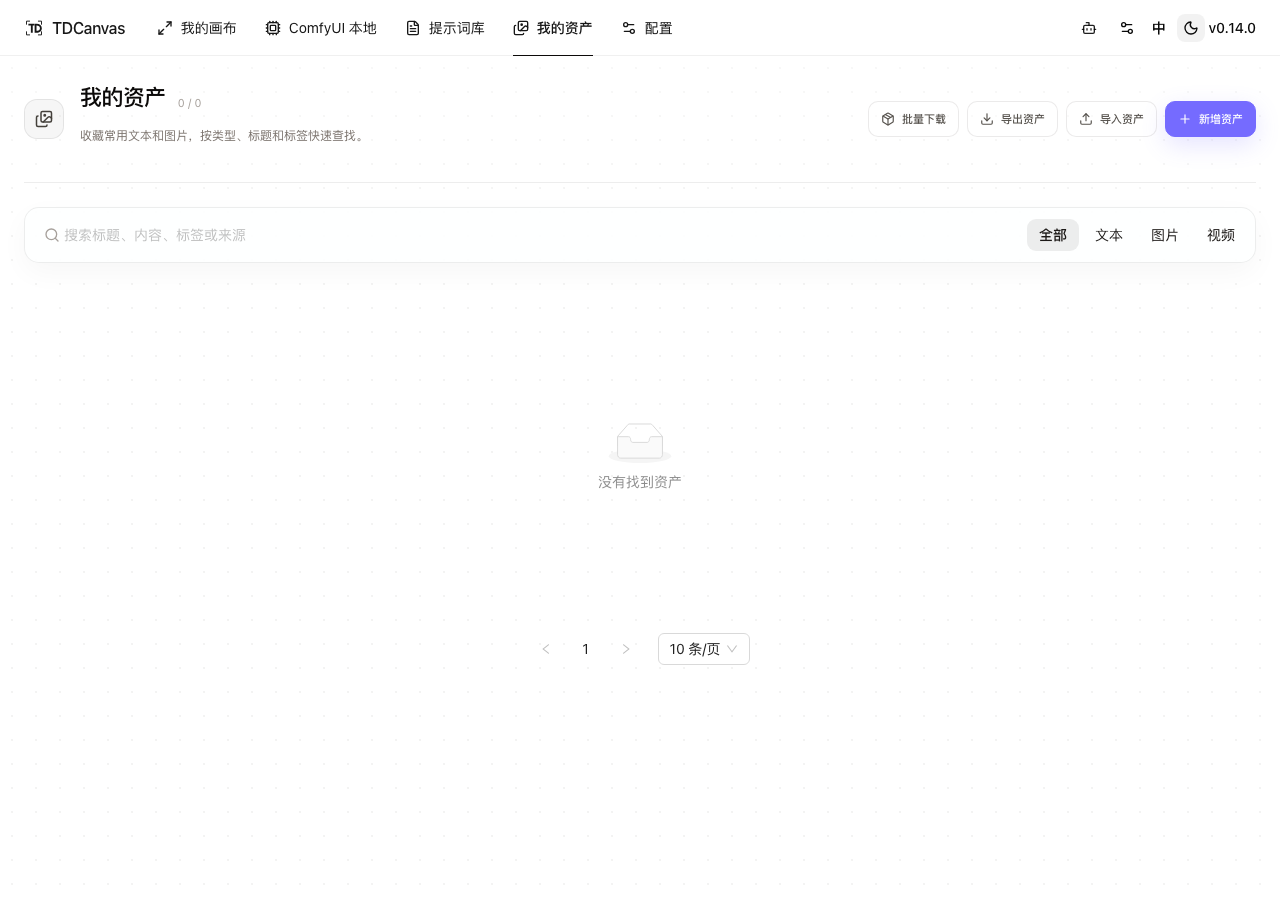
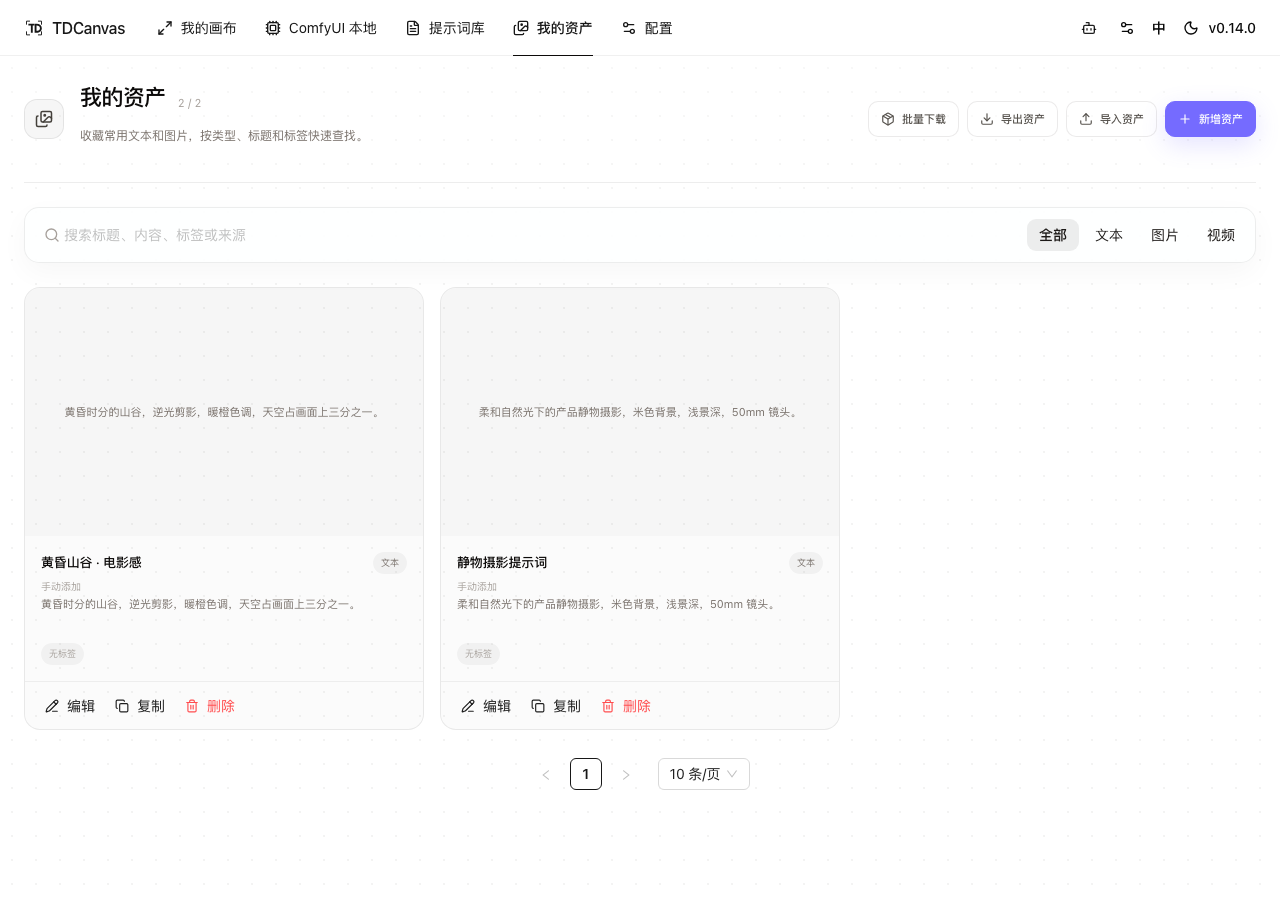
docs(tdcanvas-manual): M218 核 6 张 alt，5 张全对、1 张抓到错；那张错的三处描述都写了「图上有卡片」，而图是空态
按 M217 新立的判据办：核一个事实先数它被写了几遍，逐遍核。
所以本批不只核正文 alt，还把同一张图在 manifest 里的 alt 与 verified_locator 一起拉出来对。

6 张：14-manage-assets-import（两处引用）、14-manage-assets-search、
20-config-page（两处引用）、20-reference-config-dialog、
30-concepts-legacy-config-migrated（两处引用）全对；
14-manage-assets-light 抓到错，登记 R63，订正数 59 到 60。

R63 的内容：14-manage-assets-light.png 打开是空态——计数 0/0、
居中「没有找到资产」、底部只剩分页器，一张卡片都没有。
而同一张图在三个地方被描述成有卡片：manifest 的 alt、
同一份 manifest 的 verified_locator（逐条列了「卡片底部 编辑 复制 删除」）、
以及 organize-canvas.md 正文拿它当「资产页的卡片在浅色下都正常」的证据。
只有正文那张图的 alt 是对的。

处置是重拍而不是改措辞：先用产品自己的删除弹窗把 profile 里 4 张测试残留删干净，
再经「新增资产」弹窗建两张可读名字的文本资产，切浅色（类名与 localStorage 双确认）
才按快门，收尾删回 0/0、主题切回深色。
旧文件 sha256 d7533c3c 换成 02427a6c，manifest 四个字段同步更新。
顺带订正正文：那句还承诺「配置页的两栏布局在浅色下都正常」，
而全手册只有三张浅色图、没有浅色配置页的图，已改成图上真有的东西。

这是 M217 那条新判据的第一次实战：同一事实被写了三遍，只核一遍就会漏掉两遍，
而三遍里两遍都错。

另记一次被拦住的假警报（第 140 次否证）：
核「alt 已核 46 / 62」这个计数器时，按 PROGRESS 点名图名去数得 41、比计数器少 6，
动手改之前查出是 M215 表格里用的是不带 .png 的短名，而我的提取正则要求全名。
少的是尺子不是账，计数器是对的。
复现不出来时先怀疑复现方法，再怀疑被记的东西。

重拍时踩的两个坑也写进了 manifest 的 m218_note：
固定 sleep 拿到的是「弹窗还没开」，必须等目标出现；
antd 会在两个字之间插空格，保存键的 innerText 是「保 存」。

截图仍是 112 张（本批是替换一张）。alt 已核 46 到 52 张 / 62 张。
构建全绿：22 页 / 112 图 / 25M，自检 89/89，链接 940 条。

diff --git a/docs/user-manual/tdcanvas-canvas/scripts/check-retractions.py b/docs/user-manual/tdcanvas-canvas/scripts/check-retractions.py
@@ -736,6 +736,26 @@ RETRACTIONS: list[dict[str, str]] = [
                "**M217 已改成「面板内都是同一组 7 个……顶栏另有 1 个『打开 Agent』把它叫出来」。**",
         "fixed_in": "M217",
     },
+    {
+        "id": "R63",
+        "kind": "conclusion",
+        "wrong": "下方是一张带编辑复制删除操作的资产卡片",
+        "why": "**三处都说图上有一张资产卡片，图上一张都没有。**\n"
+               "2026-10-04 核 alt 时打开 `14-manage-assets-light.png`：**那是空态**——\n"
+               "计数 0/0、居中一个箱子图标加「没有找到资产」、底部只剩分页器，**没有任何卡片**。\n"
+               "而同一张图在三个地方被描述成有卡片：\n"
+               "① `screenshots/manifest.yml` 的 `alt` 写「下方是一张带编辑复制删除操作的资产卡片」；\n"
+               "② 同一份 manifest 的 `verified_locator` 逐条列了「卡片底部 编辑 复制 删除」；\n"
+               "③ `10-tasks/organize-canvas.md` 正文拿它当「资产页的**卡片**在浅色下都正常」的证据。\n"
+               "★ **只有正文那张图的 alt 是对的**（它只描述工具栏、搜索框与筛选，没提卡片）——\n"
+               "**这正是 M217 新立那条判据的第一次实战：同一事实被写了三遍，只核一遍就会漏掉两遍。**\n"
+               "★ 处置不是改措辞而是**重拍**：先把 profile 里 M189/M194 留下的 4 张测试残留\n"
+               "经产品自己的删除弹窗逐张删干净，再经「新增资产」弹窗建两张可读名字的文本资产，\n"
+               "点顶栏主题按钮切浅色（**类名与 localStorage 双确认**）才按快门，收尾删回 0/0、主题切回深色。\n"
+               "旧文件 sha256 d7533c3c… 已替换为 02427a6c…。★ 顺带订正正文：\n"
+               "那句还承诺「**配置页的两栏布局**在浅色下都正常」，而**全手册没有浅色配置页的图**（只有三张浅色图：画布、外观面板、资产页），已一并改成图上真有的东西",
+        "fixed_in": "M218",
+    },
 ]
 
 

diff --git a/docs/user-manual/tdcanvas-canvas/AUDIT.md b/docs/user-manual/tdcanvas-canvas/AUDIT.md
@@ -755,3 +755,5 @@
 | **Minor(手册自身)** | **`use-agent.md` 写「五处的 Agent 元素完全一致，都是同一组 7 个」，但那份清单里没有「连接设置」，却把顶栏的「打开 Agent」算了进去** | **数是 7，成员错了。**2026-10-04 逐页实测六处（`/assets` `/prompts` `/config` `/comfyui-local` `/canvas` `/canvas/:id`）：面板内六处逐字相同、恒为 7 个，顺序是 连接设置 → 对话 → 历史 → 技能 → 日志 → 新对话 → 收起；顶栏的「打开 Agent」**在面板容器之外**。画布页顶栏另有状态灯，故全页合计是**非画布页 8 个、画布页 9 个** | 已改成「面板内都是同一组 7 个——…；顶栏另有 1 个『打开 Agent』把它叫出来」。登记 R62。★ **面板的 7 个在手册别处已经写对过两处**（`90-troubleshooting.md:356` 逐个列全、`AUDIT.md` 里 M95 的英文清单第一项就是 Connection settings），**出错的只有这一处** |
 | **Major(方法)** | **同一个事实在手册里常被写好几遍，只核其中一遍等于没核——而错的那一遍往往就是没被台账登记的那一遍** | 本批四条里有三条是**手册自己内部打架**：`90-troubleshooting-upload-rejected.png` 的 alt 说「中间」、manifest 的 alt 说「顶部」、正文说「上面」；`04-edit-nodes-multiselect-menu.png` 的正文 alt 说「右上角」、manifest 的 alt 说「文本节点上」、manifest 的 `step` 说「左下侧」；Agent 面板那 7 个在 `90-troubleshooting.md` 与 `AUDIT.md` 都对、只有 `use-agent.md` 错。**前几批立的判据（alt 描述一张图 / 正文描述一个产品）管的是「哪一层」，管不了「同层写了好几遍」** | 新立判据：**核一个事实时先数它被写了几遍，逐遍核**——被写一遍的事实核一遍就够，被写三遍的只核一遍，剩下的遍数默认未核。★ 顺带一条量具教训：本批第一版探针把 `.td-canvas-dock` 当阳性对照去量 `/canvas` 列表页，**列表页本来就没有 Dock**，读出来的「面板内 2 个」是自己制造的；改用 `probe-agent-i18n.js` 的上溯法才拿到正确的 7 个 |
 | **第 139 次否证** | **否掉「读到的数不对，一定是产品变了」——也可能是量具的阳性对照选错了** | 本批第一版探针去数「一个页面上有几个 Agent 可点元素」，在列表页 `/canvas` 读到「面板内 2 个」。**这是把量具的读数当成了产品的读数**：阳性对照用的是 `.td-canvas-dock`，**而列表页本来就没有 Dock**，前置条件压根不成立；面板容器又只从收起按钮上溯 1 层，够到的只有新对话与收起两个。改用 `probe-agent-i18n.js` 的上溯法（≥6 个带 aria-label 的按钮）重跑，六处页面各自读到面板内 7 个、与源码对得上。**同一支探针在画布页就正常**——`dock=true` 时读数是对的，**说明错的不是产品也不是探针，是我把「列表页」和「画布页」套进了同一把尺子** |
+| **Minor(手册自身)** | **`14-manage-assets-light.png` 被三处描述成「图上有一张资产卡片」，而图上是空态（0/0、一张卡片都没有）** | 这张图是 `organize-canvas.md` 拿来说「资产页的**卡片**在浅色下都正常」的证据，**可它根本拍不到卡片**。而读者若照着正文去看图，只会看到「没有找到资产」——**证据与主张对不上，比没有证据更坏**。同图的 `alt` 与 `verified_locator` 也都写了卡片（后者逐条列了「卡片底部 编辑 复制 删除」） | **不是改措辞，是重拍**：先用产品自己的删除弹窗把 profile 里 4 张测试残留删干净，再经「新增资产」弹窗建两张可读名字的资产，切浅色（**类名与 localStorage 双确认**）才按快门，收尾删回 0/0、主题切回深色。正文那句还承诺「**配置页的两栏布局**在浅色下都正常」，而全手册根本没有浅色配置页的图，一并改成图上真有的东西。登记 R63。★ 这是 M217 新立判据的第一次实战：**同一事实被写了三遍，只核一遍就会漏掉两遍**——三遍里只有正文 alt 是对的 |
+| **第 140 次否证** | **否掉「复现不出来的数，一定是当初记错了」** | 本批开头核 M217 那个「alt 已核 46 / 62」的计数器时，我按「PROGRESS 里点名过图名 = 核过」去数，得出的累计是 **41**，比计数器少 6——**看着就是计数器漂了**。动手改之前先查了 M215 那一段，发现它表格里写的是 `group-empty`、`group-filled` 这种**不带 `.png` 的短名**，而我的提取正则要求全名带后缀。**少的是我的尺子，不是账**。换成短名一起数，累计正好 41 次点名 / 40 张不同图（M215 有一张与前批重名），加上 M217 的 6 张 = 46，**计数器是对的**。M203/M204 已经为「复现不出来的数」写过两条，本批再补一条：**复现不出来时，先怀疑复现方法，再怀疑被记的东西** |

diff --git a/docs/user-manual/tdcanvas-canvas/10-tasks/organize-canvas.md b/docs/user-manual/tdcanvas-canvas/10-tasks/organize-canvas.md
@@ -176,9 +176,9 @@
 
 ![浅色主题下的画布，浅米色点阵背景、白色节点与面板，左下角缩放条与左侧 Dock 均为浅色](../screenshots/01-create-canvas-project-light-canvas.png)
 
-浅色主题不是把深色反相，而是一套完整的独立配色：画布底色是**浅米色**（`oklch(1 0 0)` 的近白），节点与面板转白底深字，画布背景的**点阵变成浅棕点**。资产页的卡片、配置页的两栏布局在浅色下都正常：
+浅色主题不是把深色反相，而是一套完整的独立配色：画布底色是**浅米色**（`oklch(1 0 0)` 的近白），节点与面板转白底深字，画布背景的**点阵变成浅棕点**。资产页的整页也跟着换，工具栏、搜索框、筛选按钮与资产卡片在浅色下都正常：
 
-![浅色主题下的我的资产页面，搜索框与筛选按钮为浅色底深字，工具栏四个按钮轮廓清晰](../screenshots/14-manage-assets-light.png)
+![浅色主题下的我的资产页面（计数 2/2），搜索框与筛选按钮为浅色底深字，工具栏四个按钮轮廓清晰，下方并排两张带编辑、复制、删除的资产卡片](../screenshots/14-manage-assets-light.png)
 
 **在外观面板里切主题，面板自己不会变**：面板是在弹出的瞬间渲染的，你在面板里点「深色」，**要先把面板关掉再打开**才能看到新配色——这是正常的，不是卡住了。
 
